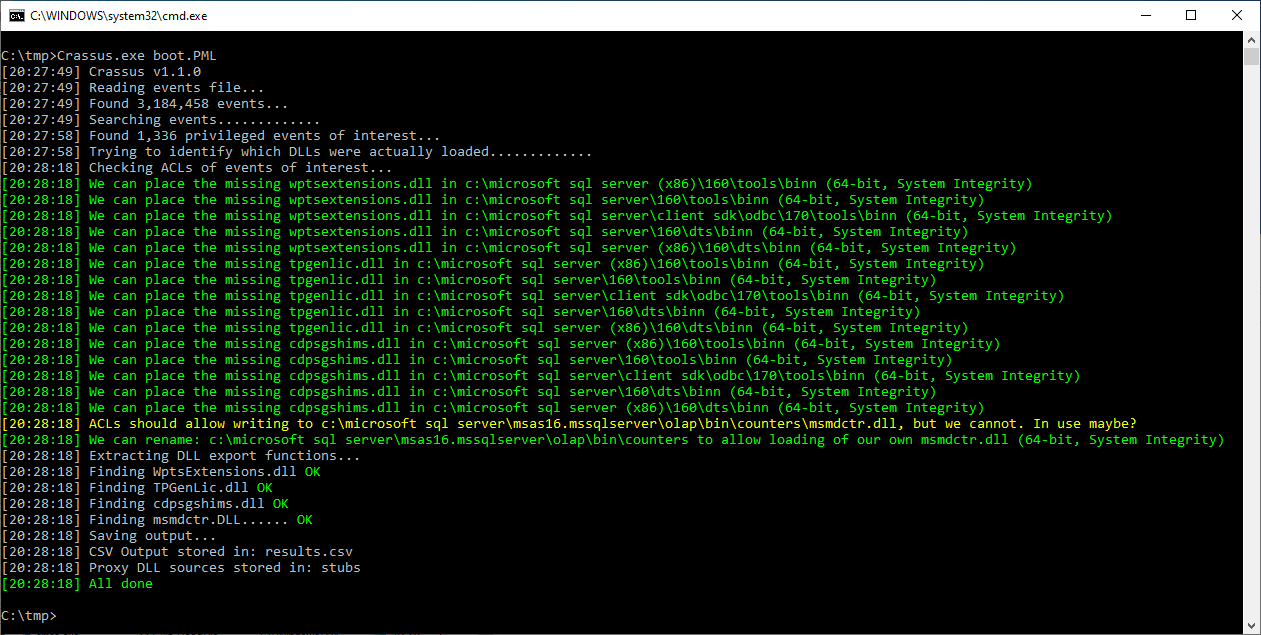
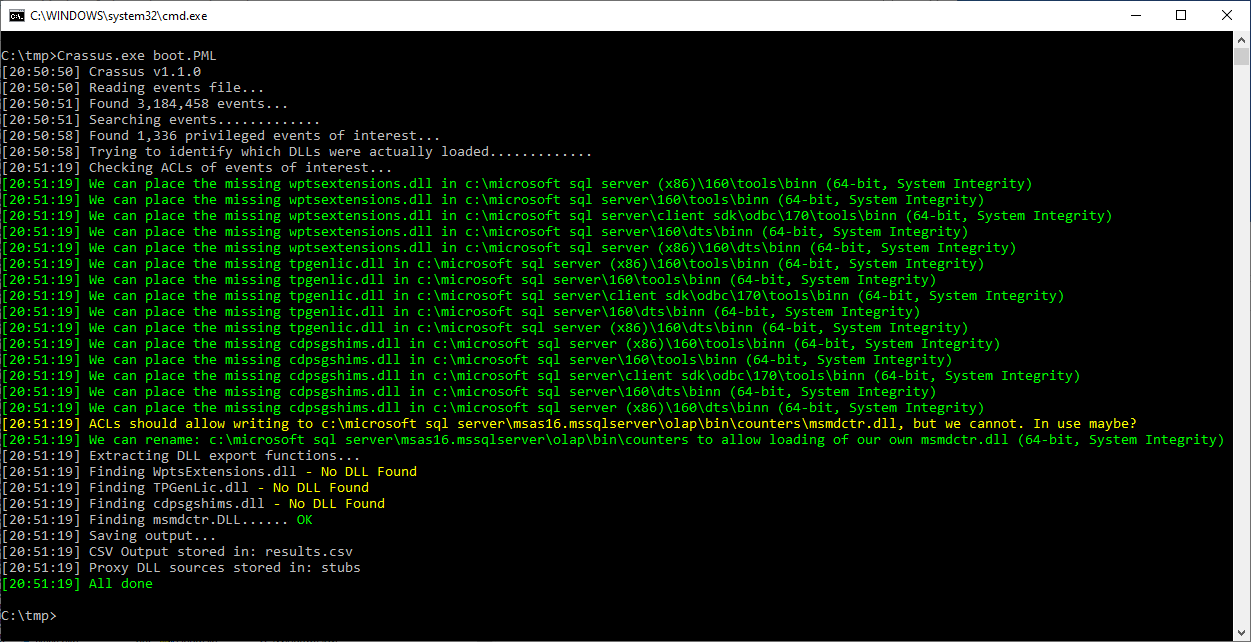
Updated screenshots, skype false-positive ignoring

Changed region(s): [[0.0, 0.0, 0.9664, 0.9874], [0.9976, 0.3291, 1.0, 0.389], [0.2182, 0.9874, 0.2494, 1.0]]

diff --git a/Crassus/Crassus/EventProcessor.cs b/Crassus/Crassus/EventProcessor.cs
@@ -686,7 +686,7 @@ namespace Crassus.Crassus
                     //List<string> pragma = new List<string>();
                     //string pragmaTemplate = "#pragma comment(linker,\"/export:{0}=\\\"{1}.{2},@{3}\\\"\")";
                     List<string> functions = new List<string>();
-                    string functionsTemplate = "void {0}() {{Payload();}}";
+                    string functionsTemplate = "  void {0}() {{Payload();}}";
                     //List<string> headerFunctions = new List<string>();
                     //string headerFunctionsTemplate = "ADDAPI int ADDCALL {0}();";
                     List<string> resourceFunctions = new List<string>();
@@ -949,7 +949,7 @@ namespace Crassus.Crassus
                     if ( e.Operation == EventFileSystemOperation.Process_Create)
                     {
                         // 1) Privileged Create Process on a file that is itself or in a directory that is mutable by a non-privileged user
-                        if (e.Path.ToLower().Contains("\\microsoftedgeupdate.exe"))
+                        if (e.Path.ToLower().EndsWith("\\microsoftedgeupdate.exe"))
                         {
                             // This seems to just be noise
                             continue;
@@ -987,6 +987,11 @@ namespace Crassus.Crassus
                     else if (e.Result != EventResult.NAME_NOT_FOUND && e.Result != EventResult.PATH_NOT_FOUND)
                     {
                         // We've already got Load_image and Process_Create events. We don't care about existing files
+                        continue;
+                    }
+                    else if (e.Path.ToLower().EndsWith("appdata\\local\\microsoft\\windowsapps\\skype.exe") || e.Path.ToLower().EndsWith("appdata\\local\\microsoft\\windowsapps\\microsoft.skypeapp_kzf8qxf38zg5c\\skype.exe"))
+                    {
+                        // More noise, apparently.
                         continue;
                     }
                     // By now, we are dealing with the legacy Crassus behavior: Looking for "interesting" things that are missing.

diff --git a/README.md b/README.md
@@ -22,6 +22,7 @@
     * [CSV Output](#csv-output)
     * [Exports](#output-exports)
     * [Export DLL Functions](#export-dll-functions)
+    * [Export DLL Ordinals](#export-dll-ordinals)
 * [Getting Crassus.exe](#getting-crassusexe)
     * [Building with Visual studio](#building-with-visual-studio)
     * [Using precompiled Crassus.exe](#using-precompiled-crassusexe)
@@ -78,6 +79,10 @@ Accenture made a tool called [Spartacus](https://github.com/Accenture/Spartacus)
 ## Export DLL Functions
 
 ![DLL Functions](screenshots/exports-version.png "DLL Functions")
+
+## Export DLL Ordinals
+
+![DLL Ordinals](screenshots/exports-def.png "DLL Ordinals")
 
 # Getting Crassus.exe
 
